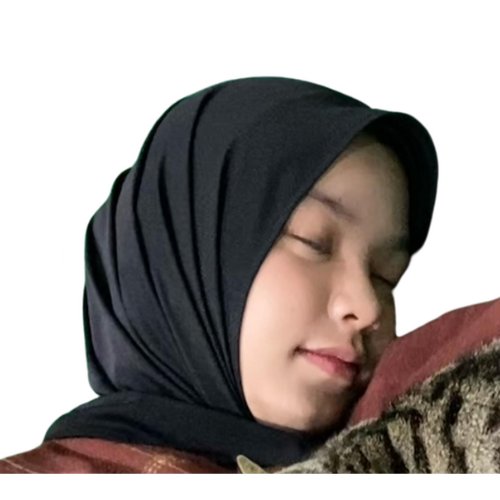
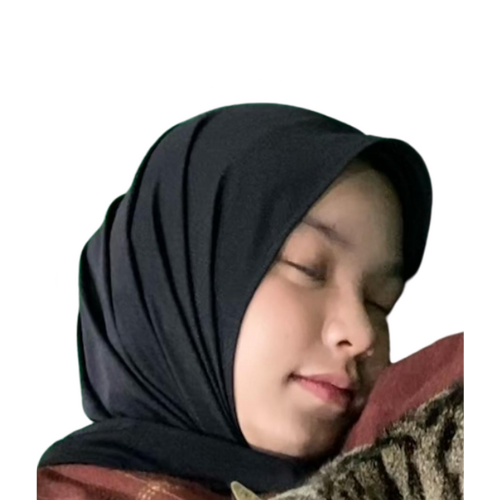
add bila img

diff --git a/index.html b/index.html
@@ -376,7 +376,7 @@
                 
                 <md-card class="member-card">
                     <div class="member-avatar">
-                        <md-icon>B</md-icon>
+                        <img src="foto/bila.png" alt="">
                     </div>
                     <h3 class="md-typescale-title-large member-name">bila</h3>
                     <p class="md-typescale-body-medium member-quote">di isi dengan kata kata terbaik</p>
